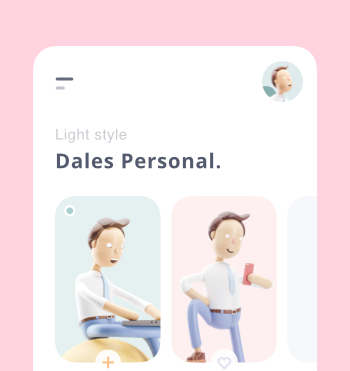
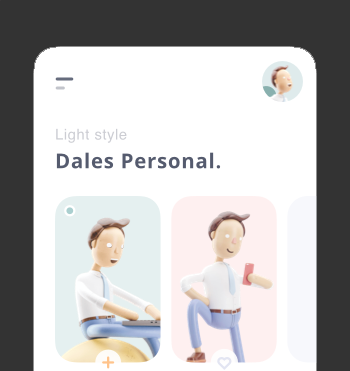
up2

Changed region(s): [[0.0, 0.0, 1.0, 1.0]]

diff --git a/HTML EMAIL TEMPLATE 2/my-new-email.html b/HTML EMAIL TEMPLATE 2/my-new-email.html
@@ -5,12 +5,8 @@
 <!--[if gte mso 9]><xml><o:OfficeDocumentSettings><o:AllowPNG/><o:PixelsPerInch>96</o:PixelsPerInch></o:OfficeDocumentSettings></xml><![endif]-->
 <meta content="text/html; charset=utf-8" http-equiv="Content-Type"/>
 <meta content="width=device-width" name="viewport"/>
-<!--[if !mso]><!-->
 <meta content="IE=edge" http-equiv="X-UA-Compatible"/>
-<!--<![endif]-->
 <title></title>
-<!--[if !mso]><!-->
-<!--<![endif]-->
 <style type="text/css">
 		body {
 			margin: 0;
@@ -114,22 +110,16 @@
 	</style>
 </head>
 <body class="clean-body" style="margin: 0; padding: 0; -webkit-text-size-adjust: 100%; background-color: #f9f9f9;">
-<!--[if IE]><div class="ie-browser"><![endif]-->
 <table bgcolor="#f9f9f9" cellpadding="0" cellspacing="0" class="nl-container" role="presentation" style="table-layout: fixed; vertical-align: top; min-width: 320px; Margin: 0 auto; border-spacing: 0; border-collapse: collapse; background-color: #f9f9f9; width: 100%;" valign="top" width="100%">
 <tbody>
 <tr style="vertical-align: top;" valign="top">
 <td style="word-break: break-word; vertical-align: top;" valign="top">
-<!--[if (mso)|(IE)]><table width="100%" cellpadding="0" cellspacing="0" border="0"><tr><td align="center" style="background-color:#f9f9f9"><![endif]-->
 <div style="background-color:transparent;">
 <div class="block-grid" style="Margin: 0 auto; min-width: 320px; max-width: 700px; overflow-wrap: break-word; word-wrap: break-word; word-break: break-word; background-color: transparent;">
 <div style="border-collapse: collapse;display: table;width: 100%;background-color:transparent;">
-<!--[if (mso)|(IE)]><table width="100%" cellpadding="0" cellspacing="0" border="0" style="background-color:transparent;"><tr><td align="center"><table cellpadding="0" cellspacing="0" border="0" style="width:700px"><tr class="layout-full-width" style="background-color:transparent"><![endif]-->
-<!--[if (mso)|(IE)]><td align="center" width="700" style="background-color:transparent;width:700px; border-top: 0px solid transparent; border-left: 0px solid transparent; border-bottom: 0px solid transparent; border-right: 0px solid transparent;" valign="top"><table width="100%" cellpadding="0" cellspacing="0" border="0"><tr><td style="padding-right: 0px; padding-left: 0px; padding-top:5px; padding-bottom:5px;"><![endif]-->
 <div class="col num12" style="min-width: 320px; max-width: 700px; display: table-cell; vertical-align: top; width: 700px;">
 <div style="width:100% !important;">
-<!--[if (!mso)&(!IE)]><!-->
 <div style="border-top:0px solid transparent; border-left:0px solid transparent; border-bottom:0px solid transparent; border-right:0px solid transparent; padding-top:5px; padding-bottom:5px; padding-right: 0px; padding-left: 0px;">
-<!--<![endif]-->
 <table border="0" cellpadding="0" cellspacing="0" class="divider" role="presentation" style="table-layout: fixed; vertical-align: top; border-spacing: 0; border-collapse: collapse;   min-width: 100%; -ms-text-size-adjust: 100%; -webkit-text-size-adjust: 100%;" valign="top" width="100%">
 <tbody>
 <tr style="vertical-align: top;" valign="top">
@@ -145,45 +135,29 @@
 </tr>
 </tbody>
 </table>
-<!--[if (!mso)&(!IE)]><!-->
-</div>
-<!--<![endif]-->
 </div>
 </div>
-<!--[if (mso)|(IE)]></td></tr></table><![endif]-->
-<!--[if (mso)|(IE)]></td></tr></table></td></tr></table><![endif]-->
+</div>
 </div>
 </div>
 </div>
 <div style="background-color:transparent;">
 <div class="block-grid" style="Margin: 0 auto; min-width: 320px; max-width: 700px; overflow-wrap: break-word; word-wrap: break-word; word-break: break-word; background-color: transparent;">
 <div style="border-collapse: collapse;display: table;width: 100%;background-color:transparent;">
-<!--[if (mso)|(IE)]><table width="100%" cellpadding="0" cellspacing="0" border="0" style="background-color:transparent;"><tr><td align="center"><table cellpadding="0" cellspacing="0" border="0" style="width:700px"><tr class="layout-full-width" style="background-color:transparent"><![endif]-->
-<!--[if (mso)|(IE)]><td align="center" width="700" style="background-color:transparent;width:700px; border-top: 0px solid transparent; border-left: 0px solid transparent; border-bottom: 0px solid transparent; border-right: 0px solid transparent;" valign="top"><table width="100%" cellpadding="0" cellspacing="0" border="0"><tr><td style="padding-right: 0px; padding-left: 0px; padding-top:5px; padding-bottom:5px;"><![endif]-->
 <div class="col num12" style="min-width: 320px; max-width: 700px; display: table-cell; vertical-align: top; width: 700px;">
 <div style="width:100% !important;">
-<!--[if (!mso)&(!IE)]><!-->
 <div style="border-top:0px solid transparent; border-left:0px solid transparent; border-bottom:0px solid transparent; border-right:0px solid transparent; padding-top:5px; padding-bottom:5px; padding-right: 0px; padding-left: 0px;">
-<!--<![endif]-->
 <div align="center" class="img-container center autowidth" style="padding-right: 0px;padding-left: 0px;">
-<!--[if mso]><table width="100%" cellpadding="0" cellspacing="0" border="0"><tr style="line-height:0px"><td style="padding-right: 0px;padding-left: 0px;" align="center"><![endif]--><img align="center" alt="Alternate text" border="0" class="center autowidth" src="images/teelkee.png" style="text-decoration: none; -ms-interpolation-mode: bicubic; height: auto; border: 0; width: 100%; max-width: 250px; display: block;" title="Alternate text" width="154"/>
-<!--[if mso]></td></tr></table><![endif]-->
-</div>
-<!--[if (!mso)&(!IE)]><!-->
-</div>
-<!--<![endif]-->
 </div>
 </div>
-<!--[if (mso)|(IE)]></td></tr></table><![endif]-->
-<!--[if (mso)|(IE)]></td></tr></table></td></tr></table><![endif]-->
+</div>
+</div>
 </div>
 </div>
 </div>
 <div style="background-color:transparent;">
 <div class="block-grid" style="Margin: 0 auto; min-width: 320px; max-width: 700px; overflow-wrap: break-word; word-wrap: break-word; word-break: break-word; background-color: transparent;">
 <div style="border-collapse: collapse;display: table;width: 100%;background-color:transparent;">
-<!--[if (mso)|(IE)]><table width="100%" cellpadding="0" cellspacing="0" border="0" style="background-color:transparent;"><tr><td align="center"><table cellpadding="0" cellspacing="0" border="0" style="width:700px"><tr class="layout-full-width" style="background-color:transparent"><![endif]-->
-<!--[if (mso)|(IE)]><td align="center" width="700" style="background-color:transparent;width:700px; border-top: 0px solid transparent; border-left: 0px solid transparent; border-bottom: 0px solid transparent; border-right: 0px solid transparent;" valign="top"><table width="100%" cellpadding="0" cellspacing="0" border="0"><tr><td style="padding-right: 0px; padding-left: 0px; padding-top:5px; padding-bottom:5px;"><![endif]-->
 <div class="col num12" style="min-width: 320px; max-width: 700px; display: table-cell; vertical-align: top; width: 700px;">
 <div style="width:100% !important;">
 <!--[if (!mso)&(!IE)]><!-->
@@ -204,50 +178,32 @@
 </tr>
 </tbody>
 </table>
-<!--[if (!mso)&(!IE)]><!-->
-</div>
-<!--<![endif]-->
 </div>
 </div>
-<!--[if (mso)|(IE)]></td></tr></table><![endif]-->
-<!--[if (mso)|(IE)]></td></tr></table></td></tr></table><![endif]-->
+</div>
 </div>
 </div>
 </div>
 <div style="background-color:transparent;">
 <div class="block-grid" style="Margin: 0 auto; min-width: 320px; max-width: 700px; overflow-wrap: break-word; word-wrap: break-word; word-break: break-word; background-color: transparent;">
 <div style="border-collapse: collapse;display: table;width: 100%;background-color:transparent;">
-<!--[if (mso)|(IE)]><table width="100%" cellpadding="0" cellspacing="0" border="0" style="background-color:transparent;"><tr><td align="center"><table cellpadding="0" cellspacing="0" border="0" style="width:700px"><tr class="layout-full-width" style="background-color:transparent"><![endif]-->
-<!--[if (mso)|(IE)]><td align="center" width="700" style="background-color:transparent;width:700px; border-top: 0px solid transparent; border-left: 0px solid transparent; border-bottom: 0px solid transparent; border-right: 0px solid transparent;" valign="top"><table width="100%" cellpadding="0" cellspacing="0" border="0"><tr><td style="padding-right: 0px; padding-left: 0px; padding-top:5px; padding-bottom:0px;"><![endif]-->
 <div class="col num12" style="min-width: 320px; max-width: 700px; display: table-cell; vertical-align: top; width: 700px;">
 <div style="width:100% !important;">
-<!--[if (!mso)&(!IE)]><!-->
 <div style="border-top:0px solid transparent; border-left:0px solid transparent; border-bottom:0px solid transparent; border-right:0px solid transparent; padding-top:5px; padding-bottom:0px; padding-right: 0px; padding-left: 0px;">
-<!--<![endif]-->
 <div align="center" class="img-container center autowidth" style="padding-right: 0px;padding-left: 0px;">
-<!--[if mso]><table width="100%" cellpadding="0" cellspacing="0" border="0"><tr style="line-height:0px"><td style="padding-right: 0px;padding-left: 0px;" align="center"><![endif]--><img align="center" alt="Alternate text" border="0" class="center autowidth" src="images/Up_pink.png" style="text-decoration: none; -ms-interpolation-mode: bicubic; height: auto; border: 0; width: 100%; max-width: 700px; display: block;" title="Alternate text" width="700"/>
-<!--[if mso]></td></tr></table><![endif]-->
-</div>
-<!--[if (!mso)&(!IE)]><!-->
-</div>
-<!--<![endif]-->
 </div>
 </div>
-<!--[if (mso)|(IE)]></td></tr></table><![endif]-->
-<!--[if (mso)|(IE)]></td></tr></table></td></tr></table><![endif]-->
+</div>
+</div>
 </div>
 </div>
 </div>
 <div style="background-color:transparent;">
-<div class="block-grid" style="Margin: 0 auto; min-width: 320px; max-width: 700px; overflow-wrap: break-word; word-wrap: break-word; word-break: break-word; background-color: #ffd3e0;">
-<div style="border-collapse: collapse;display: table;width: 100%;background-color:#ffd3e0;">
-<!--[if (mso)|(IE)]><table width="100%" cellpadding="0" cellspacing="0" border="0" style="background-color:transparent;"><tr><td align="center"><table cellpadding="0" cellspacing="0" border="0" style="width:700px"><tr class="layout-full-width" style="background-color:#ffd3e0"><![endif]-->
-<!--[if (mso)|(IE)]><td align="center" width="700" style="background-color:#ffd3e0;width:700px; border-top: 0px solid transparent; border-left: 0px solid transparent; border-bottom: 0px solid transparent; border-right: 0px solid transparent;" valign="top"><table width="100%" cellpadding="0" cellspacing="0" border="0"><tr><td style="padding-right: 0px; padding-left: 0px; padding-top:0px; padding-bottom:0px;"><![endif]-->
+<div class="block-grid" style="Margin: 0 auto; min-width: 320px; max-width: 700px; overflow-wrap: break-word; word-wrap: break-word; word-break: break-word; background-color: #333333;">
+<div style="border-collapse: collapse;display: table;width: 100%;background-color:#333333;">
 <div class="col num12" style="min-width: 320px; max-width: 700px; display: table-cell; vertical-align: top; width: 700px;">
 <div style="width:100% !important;">
-<!--[if (!mso)&(!IE)]><!-->
 <div style="border-top:0px solid transparent; border-left:0px solid transparent; border-bottom:0px solid transparent; border-right:0px solid transparent; padding-top:0px; padding-bottom:0px; padding-right: 0px; padding-left: 0px;">
-<!--<![endif]-->
 <table border="0" cellpadding="0" cellspacing="0" class="divider" role="presentation" style="table-layout: fixed; vertical-align: top; border-spacing: 0; border-collapse: collapse;   min-width: 100%; -ms-text-size-adjust: 100%; -webkit-text-size-adjust: 100%;" valign="top" width="100%">
 <tbody>
 <tr style="vertical-align: top;" valign="top">
@@ -264,24 +220,18 @@
 </tbody>
 </table>
 <div align="center" class="img-container center fixedwidth" style="padding-right: 0px;padding-left: 0px;">
-<!--[if mso]><table width="100%" cellpadding="0" cellspacing="0" border="0"><tr style="line-height:0px"><td style="padding-right: 0px;padding-left: 0px;" align="center"><![endif]--><img align="center" alt="I'm an image" border="0" class="center fixedwidth" src="images/Welcome_Email.png" style="text-decoration: none; -ms-interpolation-mode: bicubic; height: auto; border: 0; width: 100%; max-width: 420px; display: block;" title="I'm an image" width="420"/>
-<!--[if mso]></td></tr></table><![endif]-->
 </div>
-<!--[if mso]><table width="100%" cellpadding="0" cellspacing="0" border="0"><tr><td style="padding-right: 40px; padding-left: 40px; padding-top: 10px; padding-bottom: 10px; font-family: Tahoma, sans-serif"><![endif]-->
 <div style="color:#191919;font-family:Montserrat, Trebuchet MS, Lucida Grande, Lucida Sans Unicode, Lucida Sans, Tahoma, sans-serif;line-height:1.5;padding-top:10px;padding-right:40px;padding-bottom:10px;padding-left:40px;">
 <div style="line-height: 1.5; font-size: 12px; color: #191919; font-family: Montserrat, Trebuchet MS, Lucida Grande, Lucida Sans Unicode, Lucida Sans, Tahoma, sans-serif; ">
-<p style="font-size: 16px; line-height: 1.5; text-align: center; word-break: break-word; margin: 0;"><strong><span style="font-size: 38px;">Selamlar LINA, </span></strong></p>
-<p style="font-size: 16px; line-height: 1.5; text-align: center; word-break: break-word; margin: 0;"><strong><span style="font-size: 38px;">Teelkee ye Hosgeldin!</span></strong></p>
+<p style="font-size: 16px; line-height: 1.5; text-align: center; word-break: break-word; margin: 0;"><strong><span style="font-size: 38px;color: #ffffff;">Selamlar </span><span style="font-size: 38px;color: #282be2;">LINA, </span></strong></p>
+<p style="font-size: 16px; line-height: 1.5; text-align: center; word-break: break-word; margin: 0;"><strong><span style="font-size: 38px;color: #ffffff">Teelkee ye Hosgeldin!</span></strong></p>
 </div>
 </div>
-<!--[if mso]></td></tr></table><![endif]-->
-<!--[if mso]><table width="100%" cellpadding="0" cellspacing="0" border="0"><tr><td style="padding-right: 10px; padding-left: 10px; padding-top: 10px; padding-bottom: 10px; font-family: Tahoma, sans-serif"><![endif]-->
 <div style="color:#191919;font-family:Montserrat, Trebuchet MS, Lucida Grande, Lucida Sans Unicode, Lucida Sans, Tahoma, sans-serif;line-height:1.2;padding-top:10px;padding-right:10px;padding-bottom:10px;padding-left:10px;">
 <div style="line-height: 1.2; font-size: 12px; color: #191919; font-family: Montserrat, Trebuchet MS, Lucida Grande, Lucida Sans Unicode, Lucida Sans, Tahoma, sans-serif;">
-<p style="font-size: 22px; line-height: 1.2; text-align: center; word-break: break-word;  margin: 0;"><span style="font-size: 22px;">Aramiza Hosgeldin!</span></p>
+<p style="font-size: 22px; line-height: 1.2; text-align: center; word-break: break-word;  margin: 0;"><span style="font-size: 22px;color: #ffffff">Aramiza Hosgeldin!</span></p>
 </div>
 </div>
-<!--[if mso]></td></tr></table><![endif]-->
 <table border="0" cellpadding="0" cellspacing="0" class="divider" role="presentation" style="table-layout: fixed; vertical-align: top; border-spacing: 0; border-collapse: collapse;   min-width: 100%; -ms-text-size-adjust: 100%; -webkit-text-size-adjust: 100%;" valign="top" width="100%">
 <tbody>
 <tr style="vertical-align: top;" valign="top">
@@ -297,26 +247,18 @@
 </tr>
 </tbody>
 </table>
-<!--[if (!mso)&(!IE)]><!-->
-</div>
-<!--<![endif]-->
 </div>
 </div>
-<!--[if (mso)|(IE)]></td></tr></table><![endif]-->
-<!--[if (mso)|(IE)]></td></tr></table></td></tr></table><![endif]-->
+</div>
 </div>
 </div>
 </div>
 <div style="background-color:transparent;">
 <div class="block-grid" style="Margin: 0 auto; min-width: 320px; max-width: 700px; overflow-wrap: break-word; word-wrap: break-word; word-break: break-word; background-color: #ffffff;">
 <div style="border-collapse: collapse;display: table;width: 100%;background-color:#ffffff;">
-<!--[if (mso)|(IE)]><table width="100%" cellpadding="0" cellspacing="0" border="0" style="background-color:transparent;"><tr><td align="center"><table cellpadding="0" cellspacing="0" border="0" style="width:700px"><tr class="layout-full-width" style="background-color:#ffffff"><![endif]-->
-<!--[if (mso)|(IE)]><td align="center" width="700" style="background-color:#ffffff;width:700px; border-top: 0px solid transparent; border-left: 0px solid transparent; border-bottom: 0px solid transparent; border-right: 0px solid transparent;" valign="top"><table width="100%" cellpadding="0" cellspacing="0" border="0"><tr><td style="padding-right: 0px; padding-left: 0px; padding-top:0px; padding-bottom:5px;"><![endif]-->
 <div class="col num12" style="min-width: 320px; max-width: 700px; display: table-cell; vertical-align: top; width: 700px;">
 <div style="width:100% !important;">
-<!--[if (!mso)&(!IE)]><!-->
 <div style="border-top:0px solid transparent; border-left:0px solid transparent; border-bottom:0px solid transparent; border-right:0px solid transparent; padding-top:0px; padding-bottom:5px; padding-right: 0px; padding-left: 0px;">
-<!--<![endif]-->
 <table border="0" cellpadding="0" cellspacing="0" class="divider" role="presentation" style="table-layout: fixed; vertical-align: top; border-spacing: 0; border-collapse: collapse;   min-width: 100%; -ms-text-size-adjust: 100%; -webkit-text-size-adjust: 100%;" valign="top" width="100%">
 <tbody>
 <tr style="vertical-align: top;" valign="top">
@@ -332,18 +274,16 @@
 </tr>
 </tbody>
 </table>
-<!--[if mso]><table width="100%" cellpadding="0" cellspacing="0" border="0"><tr><td style="padding-right: 20px; padding-left: 20px; padding-top: 10px; padding-bottom: 0px; font-family: Tahoma, sans-serif"><![endif]-->
 <div style="color:#191919;font-family:Montserrat, Trebuchet MS, Lucida Grande, Lucida Sans Unicode, Lucida Sans, Tahoma, sans-serif;line-height:1.5;padding-top:10px;padding-right:20px;padding-bottom:0px;padding-left:20px;">
 <div style="line-height: 1.5; font-size: 12px; color: #191919; font-family: Montserrat, Trebuchet MS, Lucida Grande, Lucida Sans Unicode, Lucida Sans, Tahoma, sans-serif; ">
 <p style="font-size: 28px; line-height: 1.5; text-align: center; word-break: break-word; margin: 0;"><span style="font-size: 28px;"><strong><span >Haydi Basliyalim!</span></strong></span></p>
 </div>
 </div>
-<!--[if mso]></td></tr></table><![endif]-->
 <table border="0" cellpadding="0" cellspacing="0" class="divider" role="presentation" style="table-layout: fixed; vertical-align: top; border-spacing: 0; border-collapse: collapse;   min-width: 100%; -ms-text-size-adjust: 100%; -webkit-text-size-adjust: 100%;" valign="top" width="100%">
 <tbody>
 <tr style="vertical-align: top;" valign="top">
 <td class="divider_inner" style="word-break: break-word; vertical-align: top; min-width: 100%; -ms-text-size-adjust: 100%; -webkit-text-size-adjust: 100%; padding-top: 5px; padding-right: 5px; padding-bottom: 5px; padding-left: 5px;" valign="top">
-<table align="center" border="0" cellpadding="0" cellspacing="0" class="divider_content" role="presentation" style="table-layout: fixed; vertical-align: top; border-spacing: 0; border-collapse: collapse;   border-top: 2px solid #FFD3E0; width: 15%;" valign="top" width="15%">
+<table align="center" border="0" cellpadding="0" cellspacing="0" class="divider_content" role="presentation" style="table-layout: fixed; vertical-align: top; border-spacing: 0; border-collapse: collapse;   border-top: 2px solid #333333; width: 15%;" valign="top" width="15%">
 <tbody>
 <tr style="vertical-align: top;" valign="top">
 <td style="word-break: break-word; vertical-align: top; -ms-text-size-adjust: 100%; -webkit-text-size-adjust: 100%;" valign="top"><span></span></td>
@@ -358,7 +298,7 @@
 <tbody>
 <tr style="vertical-align: top;" valign="top">
 <td class="divider_inner" style="word-break: break-word; vertical-align: top; min-width: 100%; -ms-text-size-adjust: 100%; -webkit-text-size-adjust: 100%; padding-top: 0px; padding-right: 0px; padding-bottom: 0px; padding-left: 0px;" valign="top">
-<table align="center" border="0" cellpadding="0" cellspacing="0" class="divider_content" role="presentation" style="table-layout: fixed; vertical-align: top; border-spacing: 0; border-collapse: collapse;   border-top: 2px solid #FFD3E0; width: 5%;" valign="top" width="5%">
+<table align="center" border="0" cellpadding="0" cellspacing="0" class="divider_content" role="presentation" style="table-layout: fixed; vertical-align: top; border-spacing: 0; border-collapse: collapse;   border-top: 2px solid #333333; width: 5%;" valign="top" width="5%">
 <tbody>
 <tr style="vertical-align: top;" valign="top">
 <td style="word-break: break-word; vertical-align: top; -ms-text-size-adjust: 100%; -webkit-text-size-adjust: 100%;" valign="top"><span></span></td>
@@ -774,8 +714,8 @@
 </div>
 </div>
 <div style="background-color:transparent;">
-<div class="block-grid two-up" style="Margin: 0 auto; min-width: 320px; max-width: 700px; overflow-wrap: break-word; word-wrap: break-word; word-break: break-word; background-color: #ffd3e0;">
-<div style="border-collapse: collapse;display: table;width: 100%;background-color:#ffd3e0;">
+<div class="block-grid two-up" style="Margin: 0 auto; min-width: 320px; max-width: 700px; overflow-wrap: break-word; word-wrap: break-word; word-break: break-word; background-color: #333333;">
+<div style="border-collapse: collapse;display: table;width: 100%;background-color:#333333;">
 <!--[if (mso)|(IE)]><table width="100%" cellpadding="0" cellspacing="0" border="0" style="background-color:transparent;"><tr><td align="center"><table cellpadding="0" cellspacing="0" border="0" style="width:700px"><tr class="layout-full-width" style="background-color:#ffd3e0"><![endif]-->
 <!--[if (mso)|(IE)]><td align="center" width="350" style="background-color:#ffd3e0;width:350px; border-top: 0px solid transparent; border-left: 0px solid transparent; border-bottom: 0px solid transparent; border-right: 0px solid transparent;" valign="top"><table width="100%" cellpadding="0" cellspacing="0" border="0"><tr><td style="padding-right: 0px; padding-left: 0px; padding-top:5px; padding-bottom:0px;"><![endif]-->
 <div class="col num6" style="min-width: 320px; max-width: 350px; display: table-cell; vertical-align: top; width: 350px;">
@@ -801,8 +741,8 @@
 <!--[if mso]><table width="100%" cellpadding="0" cellspacing="0" border="0"><tr><td style="padding-right: 40px; padding-left: 40px; padding-top: 10px; padding-bottom: 25px; font-family: Tahoma, sans-serif"><![endif]-->
 <div style="color:#191919;font-family:Montserrat, Trebuchet MS, Lucida Grande, Lucida Sans Unicode, Lucida Sans, Tahoma, sans-serif;line-height:1.5;padding-top:10px;padding-right:40px;padding-bottom:25px;padding-left:40px;">
 <div style="line-height: 1.5; font-size: 12px; color: #191919; font-family: Montserrat, Trebuchet MS, Lucida Grande, Lucida Sans Unicode, Lucida Sans, Tahoma, sans-serif;">
-<p style="font-size: 30px; line-height: 1.5; text-align: center; word-break: break-word; margin: 0;"><span style="font-size: 30px;"><strong><span >Get Our </span></strong></span></p>
-<p style="font-size: 30px; line-height: 1.5; text-align: center; word-break: break-word; margin: 0;"><span style="font-size: 30px;"><strong><span >Mobile App</span></strong></span></p>
+<p style="font-size: 30px; line-height: 1.5; text-align: center; word-break: break-word; margin: 0;"><span style="font-size: 30px; color: #ffffff;"><strong><span >Get Our </span></strong></span></p>
+<p style="font-size: 30px; line-height: 1.5; text-align: center; word-break: break-word; margin: 0;"><span style="font-size: 30px;color: #ffffff;"><strong><span >Mobile App</span></strong></span></p>
 </div>
 </div>
 <!--[if mso]></td></tr></table><![endif]-->
